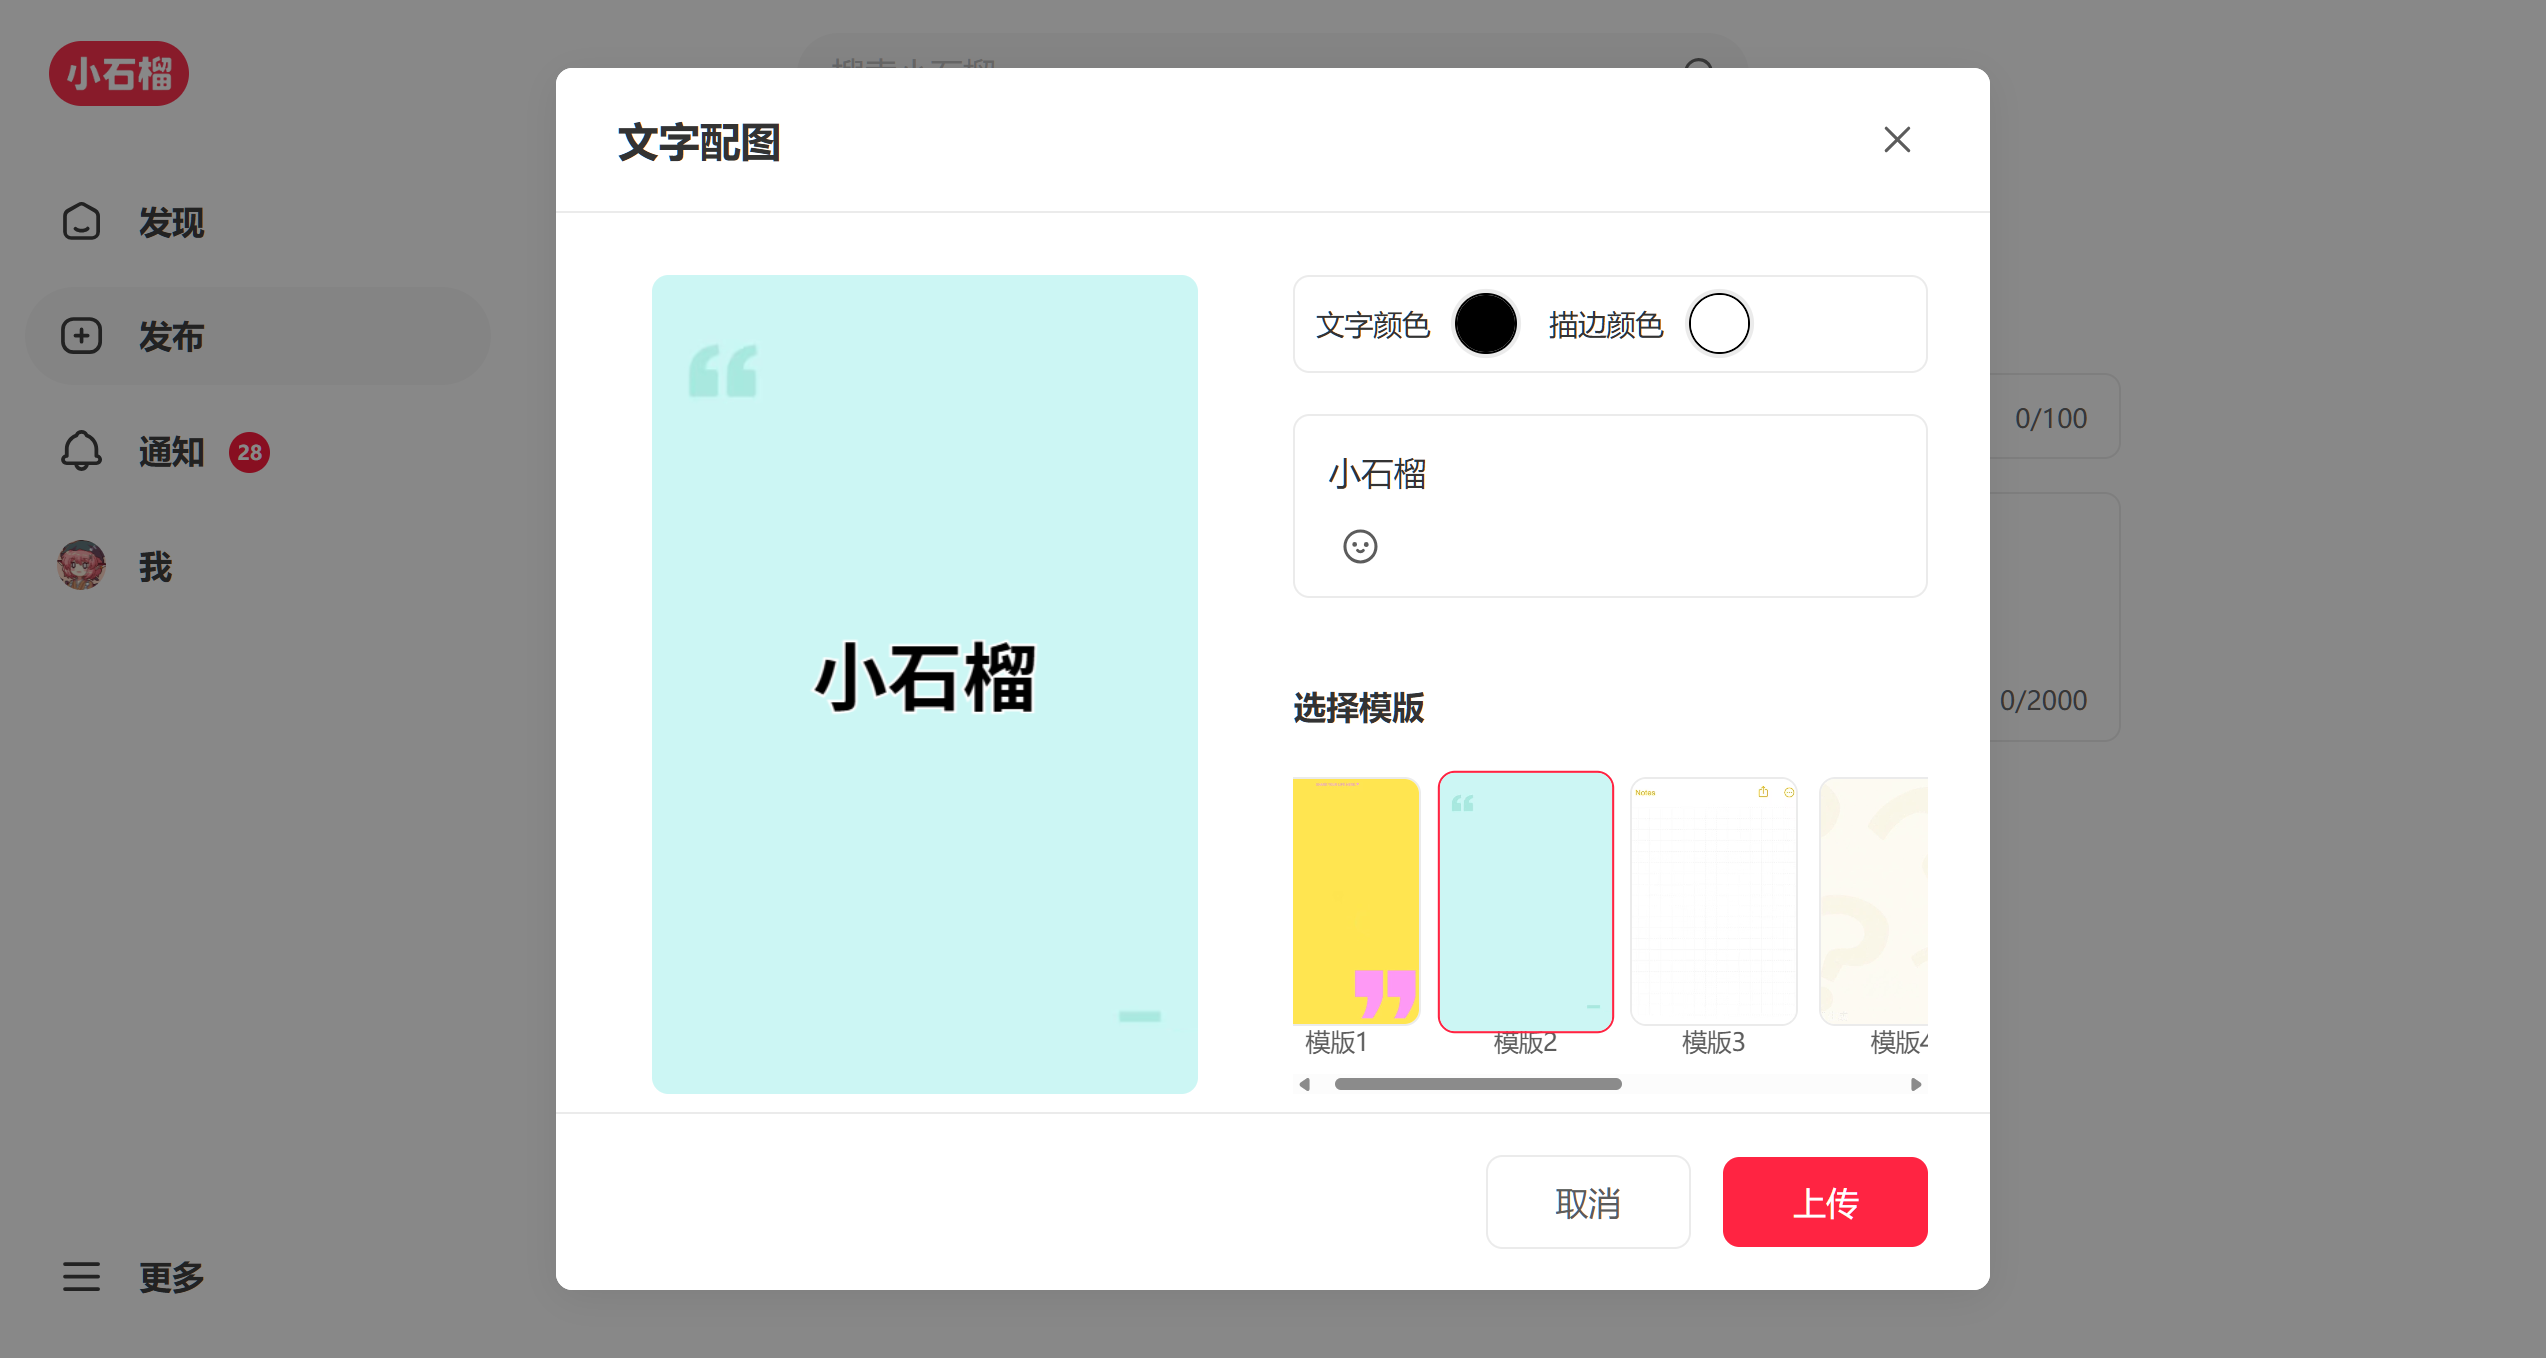
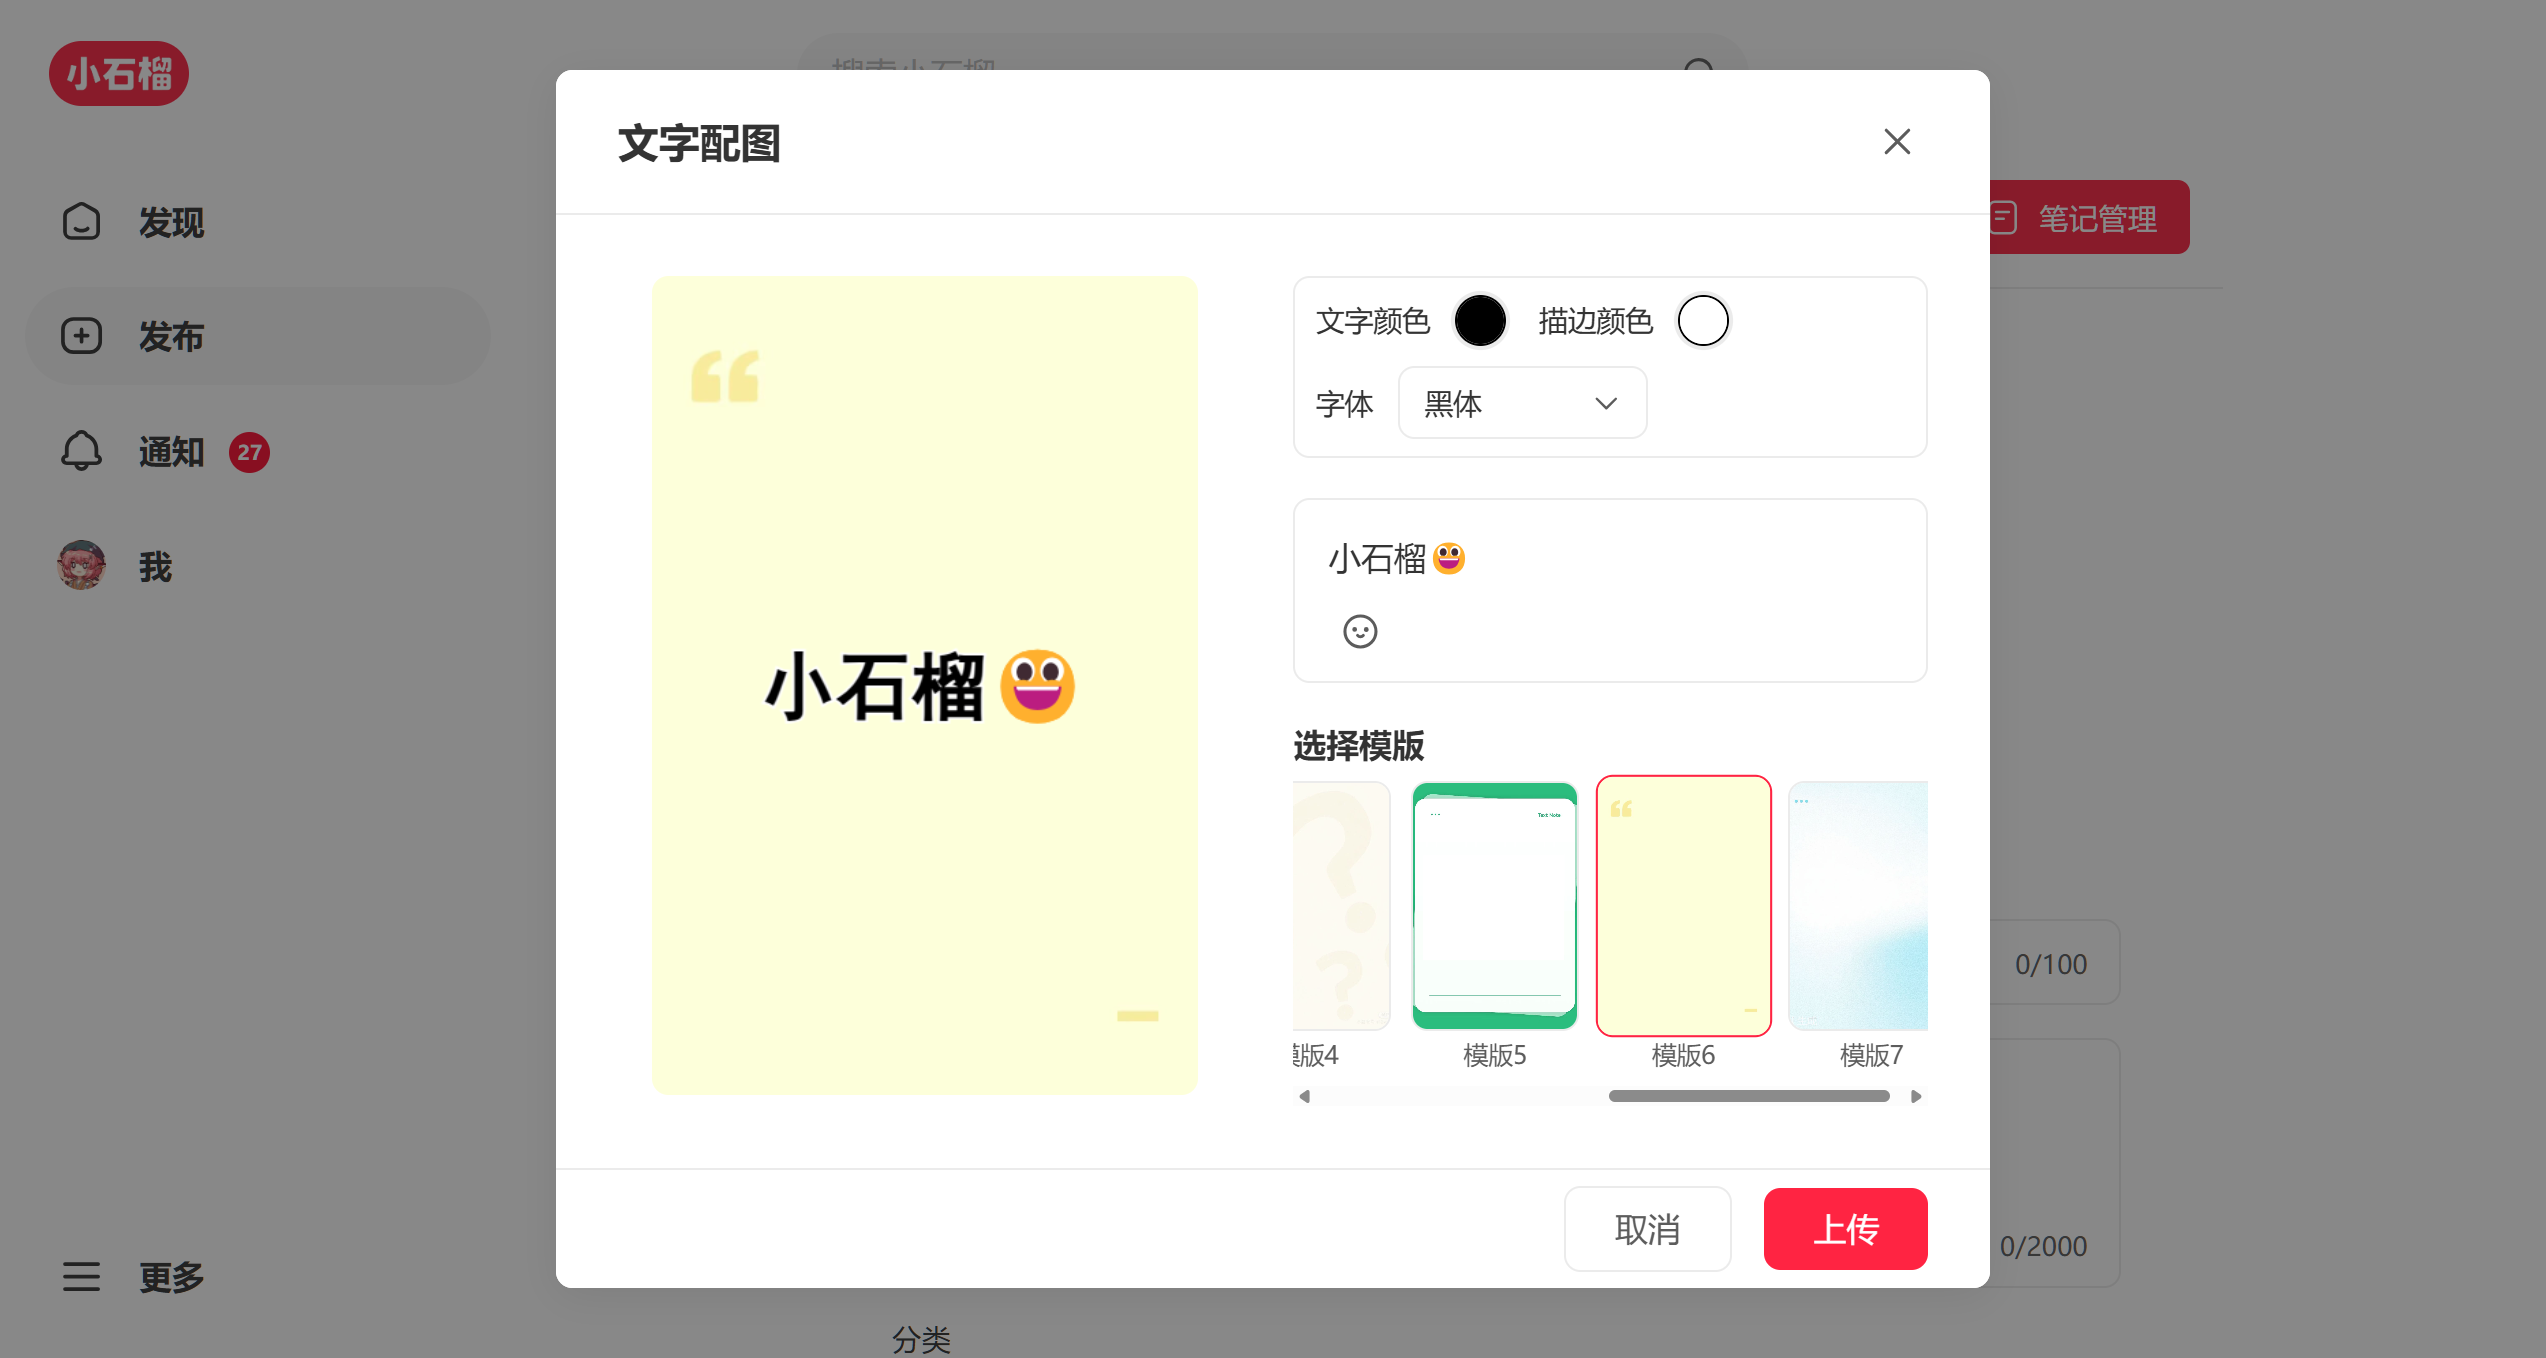
feat(组件): 为DropdownSelect添加size属性并优化TextImageModal支持字体选择

diff --git a/vue3-project/src/views/publish/components/TextImageModal.vue b/vue3-project/src/views/publish/components/TextImageModal.vue
@@ -38,6 +38,17 @@
                   <input type="color" v-model="strokeColor" class="color-picker" />
                 </div>
               </div>
+              <div class="control-group">
+                <label class="control-label">字体</label>
+                <DropdownSelect
+                  v-model="selectedFont"
+                  :options="fontOptions"
+                  placeholder="选择字体"
+                  min-width="120px"
+                  max-width="200px"
+                  size="small"
+                />
+              </div>
             </div>
 
             <!-- 输入和Emoji区域容器 -->
@@ -65,7 +76,7 @@
 
             <!-- 模版选择区域 -->
             <div class="template-section">
-              <p class="section-title">选择模版</p>
+              <div class="section-title">选择模版</div>
               <div class="template-scroll-container">
                 <div class="template-list">
                   <div v-for="template in templates" :key="template.id" class="template-item"
@@ -93,6 +104,7 @@ import { ref, computed, onMounted, watch, nextTick } from 'vue'
 import SvgIcon from '@/components/SvgIcon.vue'
 import ContentEditableInput from '@/components/ContentEditableInput.vue'
 import EmojiPicker from '@/components/EmojiPicker.vue'
+import DropdownSelect from '@/components/DropdownSelect.vue'
 
 const props = defineProps({
   visible: {
@@ -111,6 +123,23 @@ const selectedTemplate = ref(null)
 const previewImage = ref('')
 const templates = ref([])
 const fontSize = ref(40)
+const selectedFont = ref('微软雅黑')
+
+// 字体选项
+const fontOptions = [
+  { label: '微软雅黑', value: '微软雅黑' },
+  { label: '宋体', value: '宋体' },
+  { label: '楷体', value: '楷体' },
+  { label: '黑体', value: '黑体' },
+  { label: '仿宋', value: 'FangSong' },
+  { label: '华文细黑', value: 'STXihei' },
+  { label: '华文彩云', value: 'STCaiyun' },
+  { label: '华文楷体', value: 'STKaiti' },
+  { label: '华文宋体', value: 'STSong' },
+  { label: '华文黑体', value: 'STHeiti' },
+  { label: '华文仿宋', value: 'STFangsong' },
+  { label: '华文隶书', value: 'STLiti' }
+]
 
 // 自动计算最合适的字体大小
 const calculateOptimalFontSize = () => {
@@ -248,7 +277,7 @@ const drawCanvas = async () => {
       fontSize.value = currentFontSize
 
       // 设置文字样式
-      ctx.font = `bold ${currentFontSize}px Arial, sans-serif`
+      ctx.font = `bold ${currentFontSize}px ${selectedFont.value}, Arial, sans-serif`
       ctx.textAlign = 'center'
       ctx.textBaseline = 'middle'
       ctx.lineWidth = 3
@@ -416,8 +445,8 @@ watch(inputText, (newText) => {
   }
 })
 
-// 监听颜色变化，自动重新生成图片
-watch([textColor, strokeColor], (newValues, oldValues) => {
+// 监听颜色和字体变化，自动重新生成图片
+watch([textColor, strokeColor, selectedFont], (newValues, oldValues) => {
   if (inputText.value.trim() && selectedTemplate.value) {
     // 直接执行，不使用nextTick
     handleGenerate()
@@ -432,9 +461,10 @@ watch(() => props.visible, (newVal) => {
     selectedTemplate.value = null
     previewImage.value = ''
     showEmojiPanel.value = false
-    // 重置颜色设置
+    // 重置颜色和字体设置
     textColor.value = '#000000'
     strokeColor.value = '#ffffff'
+    selectedFont.value = '微软雅黑'
   }
 })
 </script>
@@ -715,6 +745,9 @@ watch(() => props.visible, (newVal) => {
   border-radius: 8px;
   padding: 8px 10px;
   border: 1px solid var(--border-color-primary);
+  display: flex;
+  flex-direction: column;
+  gap: 10px;
 }
 
 .control-group {
@@ -742,16 +775,9 @@ watch(() => props.visible, (newVal) => {
   gap: 16px;
 }
 
-@media (max-width: 768px) {
-  .color-controls {
-    flex-direction: row;
-    gap: 24px;
-  }
-}
-
 .color-picker {
-  width: 30px;
-  height: 30px;
+  width: 25px;
+  height: 25px;
   box-shadow: 0 0 0 2px var(--border-color-primary);
   border-radius: 50%;
   cursor: pointer;
@@ -807,7 +833,7 @@ watch(() => props.visible, (newVal) => {
 .template-list {
   display: flex;
   gap: 12px;
-  padding: 8px 0;
+  padding: 8px 12px;
 }
 
 .template-item {
@@ -837,6 +863,7 @@ watch(() => props.visible, (newVal) => {
   object-fit: cover;
   border-radius: 8px;
   border: 1px solid var(--border-color-primary);
+  user-select: none;
 }
 
 .template-name {
@@ -844,6 +871,8 @@ watch(() => props.visible, (newVal) => {
   font-size: 12px;
   color: var(--text-color-secondary);
   font-weight: 500;
+  margin: 4px 0 0 0;
+  user-select: none;
 }
 
 .modal-footer {
@@ -851,7 +880,7 @@ watch(() => props.visible, (newVal) => {
   align-items: center;
   justify-content: flex-end;
   gap: 16px;
-  padding: 20px 30px;
+  padding: 8px 30px;
   border-top: 1px solid var(--border-color-primary);
   background: var(--bg-color-primary);
   flex-shrink: 0;
@@ -859,14 +888,14 @@ watch(() => props.visible, (newVal) => {
 
 .cancel-btn,
 .upload-btn {
-  padding: 12px 24px;
+  padding: 10px 24px;
   border-radius: 8px;
   font-size: 16px;
   font-weight: 500;
   cursor: pointer;
   transition: all 0.2s ease;
   border: none;
-  min-width: 100px;
+  min-width: 80px;
 }
 
 .cancel-btn {
@@ -896,6 +925,13 @@ watch(() => props.visible, (newVal) => {
   background-color: var(--primary-color-dark);
 }
 
+@media (max-width: 768px) {
+  .color-controls {
+    flex-direction: row;
+    gap: 24px;
+  }
+
+}
 @media (max-width: 640px) {
   .text-image-modal {
     margin: 0.5rem;

diff --git a/vue3-project/src/components/DropdownSelect.vue b/vue3-project/src/components/DropdownSelect.vue
@@ -1,5 +1,5 @@
 <template>
-  <div class="dropdown-selector" :style="{ maxWidth, minWidth }">
+  <div class="dropdown-selector" :class="{ small: size === 'small' }" :style="{ maxWidth, minWidth }">
     <div class="dropdown-toggle" :class="{ active: isOpen }" @click="toggleDropdown">
       <div class="selected-content">
         <span v-if="selectedOption" class="selected-text">
@@ -63,6 +63,12 @@ const props = defineProps({
   disabled: {
     type: Boolean,
     default: false
+  },
+  // 尺寸大小
+  size: {
+    type: String,
+    default: 'normal',
+    validator: (value) => ['small', 'normal'].includes(value)
   }
 })
 
@@ -190,6 +196,10 @@ onUnmounted(() => {
   font-size: 14px;
 }
 
+.dropdown-selector.small .selected-content {
+  padding: 8px 12px;
+}
+
 .selected-text {
   color: var(--text-color-primary);
   font-weight: 500;
@@ -236,6 +246,10 @@ onUnmounted(() => {
   position: relative;
   border-radius: 6px;
   margin-bottom: 4px;
+}
+
+.dropdown-selector.small .dropdown-option {
+  padding: 8px 12px;
 }
 
 .dropdown-option:last-child {
